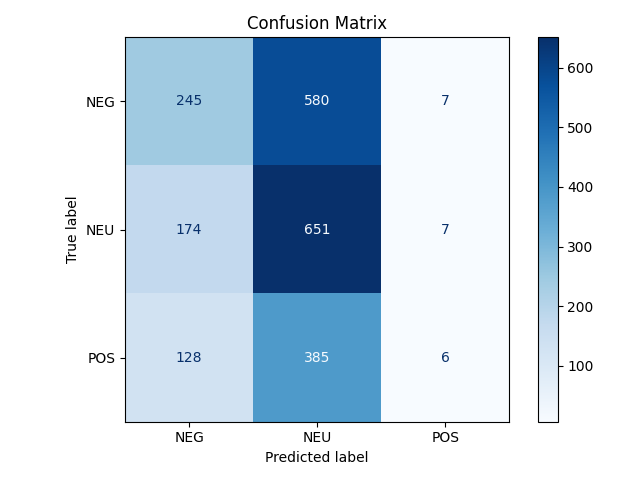
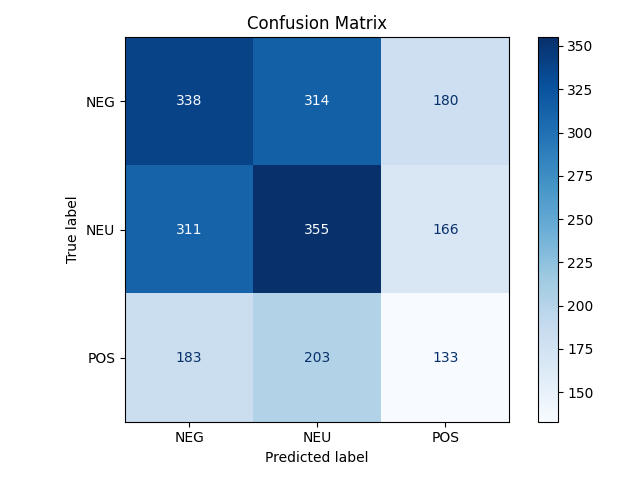
sentiment matrix fix

diff --git a/plot.py b/plot.py
@@ -101,4 +101,4 @@ def confusion_matrix_plot(input_json, output_folder="plots", normalized="true"):
 
 #metrics = parse_train_log("results/666632222/train_log.txt")
 #plot_metrics(metrics, "results/666632222/plots")
-confusion_matrix_plot("results/666632222/sentiment_pred.json", "results/666632222/plots/", "true")
+confusion_matrix_plot("results/666632222/sentiment_pred.json", "results/666632222/plots/", "false")
